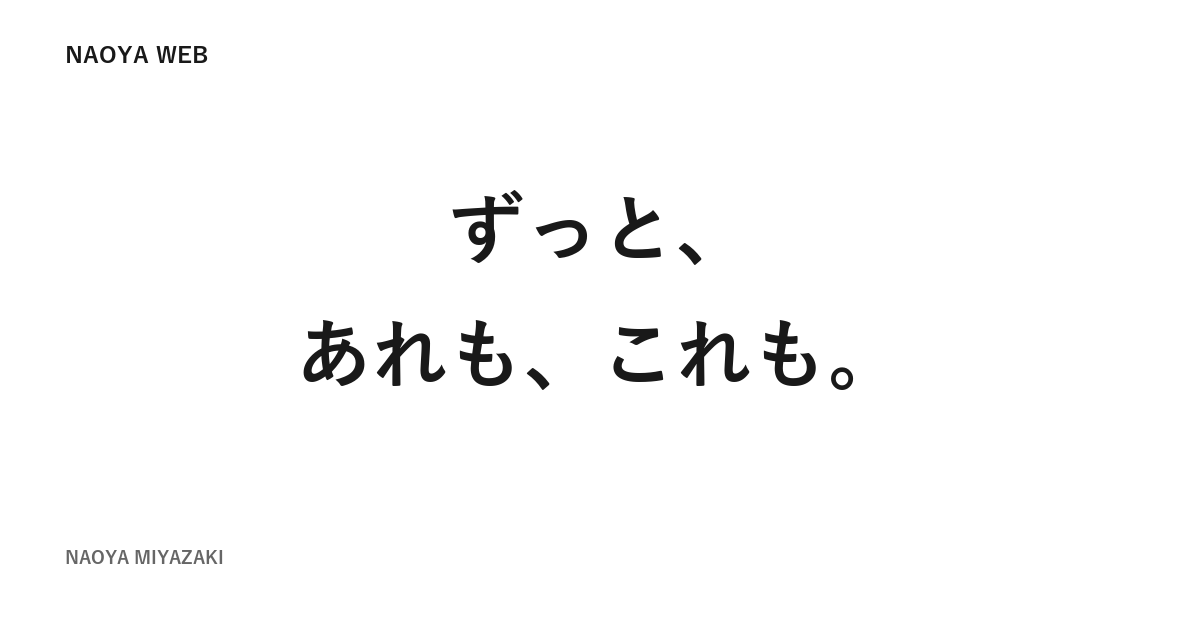
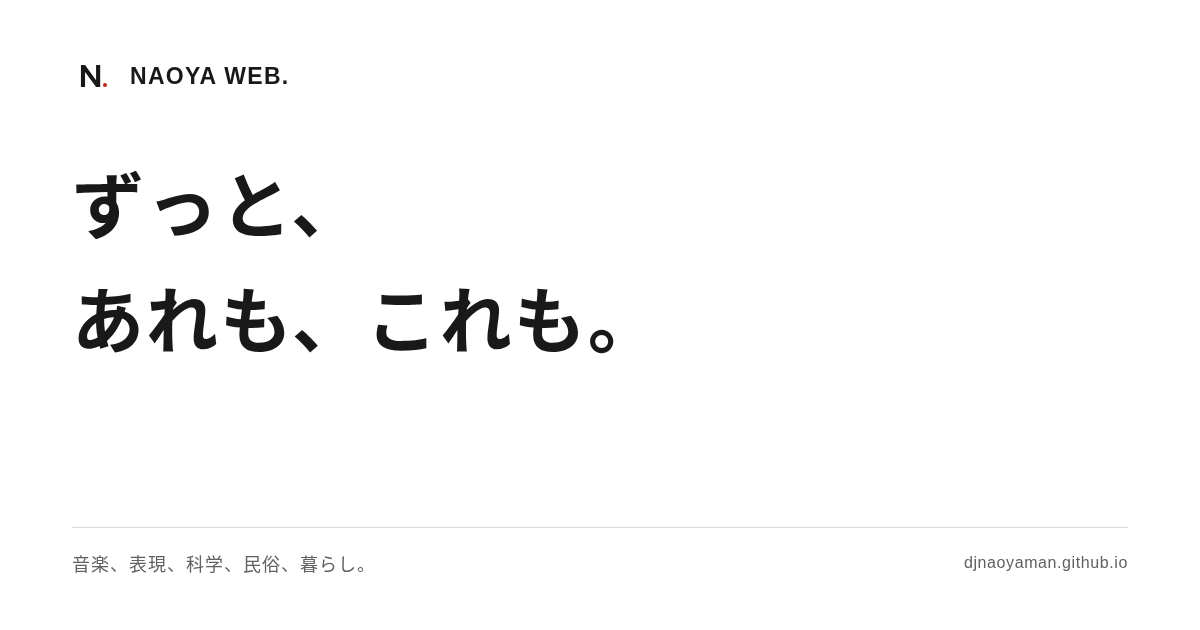
Polish brand assets, device presentation and portfolio edge cases
Unify centered N-dot icons, adaptive favicon, maskable and pinned-tab
assets, a Japanese share card, manifest previews and home-screen shortcuts.
Complete recovery-page metadata and safe-area handling, harden restored
and racing share operations, and add continuous browser/asset checks.

diff --git a/index.html b/index.html
@@ -1,20 +1,20 @@
 <!doctype html>
 <html lang="ja">
 <head>
-<meta charset="utf-8"><meta http-equiv="Content-Security-Policy" content="default-src 'none'; script-src 'self'; style-src 'self'; img-src 'self'; manifest-src 'self'; connect-src 'none'; base-uri 'none'; form-action 'none'; object-src 'none'"><meta name="viewport" content="width=device-width,initial-scale=1">
+<meta charset="utf-8"><meta http-equiv="Content-Security-Policy" content="default-src 'none'; script-src 'self'; style-src 'self'; img-src 'self'; manifest-src 'self'; connect-src 'none'; base-uri 'none'; form-action 'none'; object-src 'none'"><meta name="viewport" content="width=device-width,initial-scale=1,viewport-fit=cover">
 <title>NAOYA WEB — ずっと、あれも、これも。</title>
 <meta name="description" content="ずっと、あれも、これも。宮崎直哉のWebプロジェクト集。音楽、表現、科学、民俗、暮らし。さまざまな分野で制作した11のWebサイトを紹介します。">
 <link rel="canonical" href="https://djnaoyaman.github.io/">
-<meta property="og:type" content="website"><meta property="og:title" content="NAOYA WEB — ずっと、あれも、これも。"><meta property="og:description" content="宮崎直哉のWebプロジェクト集。音楽、表現、科学、民俗、暮らし。領域を越えて、全部やる。"><meta property="og:url" content="https://djnaoyaman.github.io/"><meta name="theme-color" content="#ffffff"><meta name="referrer" content="strict-origin-when-cross-origin">
-<link rel="icon" href="/favicon.ico" sizes="any"><link rel="icon" href="/favicon.svg" type="image/svg+xml"><link rel="icon" href="/favicon-32.png" type="image/png" sizes="32x32"><link rel="icon" href="/favicon-16.png" type="image/png" sizes="16x16"><link rel="apple-touch-icon" sizes="180x180" href="/apple-touch-icon.png"><link rel="manifest" href="/site.webmanifest">
+<meta property="og:type" content="website"><meta property="og:title" content="NAOYA WEB — ずっと、あれも、これも。"><meta property="og:description" content="宮崎直哉のWebプロジェクト集。音楽、表現、科学、民俗、暮らし。領域を越えて、全部やる。"><meta property="og:url" content="https://djnaoyaman.github.io/"><meta name="theme-color" content="#ffffff"><meta name="color-scheme" content="light"><meta name="application-name" content="NAOYA WEB."><meta name="apple-mobile-web-app-title" content="NAOYA WEB."><meta name="referrer" content="strict-origin-when-cross-origin">
+<link rel="icon" href="/favicon.ico?v=20261026-3" sizes="16x16 32x32 48x48 64x64"><link rel="icon" href="/favicon-32.png?v=20261026-3" type="image/png" sizes="32x32"><link rel="icon" href="/favicon-48.png?v=20261026-3" type="image/png" sizes="48x48"><link rel="icon" href="/favicon.svg?v=20261026-3" type="image/svg+xml" sizes="any"><link rel="apple-touch-icon" sizes="180x180" href="/apple-touch-icon.png?v=20261026-3"><link rel="mask-icon" href="/safari-pinned-tab.svg?v=20261026-3" color="#191919"><link rel="manifest" href="/site.webmanifest?v=20261026-3">
 <meta name="robots" content="index,follow,max-image-preview:large"><meta name="author" content="宮崎直哉">
-<meta property="og:site_name" content="NAOYA WEB"><meta property="og:locale" content="ja_JP"><meta property="og:image" content="https://djnaoyaman.github.io/og-image.png"><meta property="og:image:secure_url" content="https://djnaoyaman.github.io/og-image.png"><meta property="og:image:type" content="image/png"><meta property="og:image:width" content="1200"><meta property="og:image:height" content="630"><meta property="og:image:alt" content="NAOYA WEB — ずっと、あれも、これも。">
-<meta name="twitter:card" content="summary_large_image"><meta name="twitter:title" content="NAOYA WEB — ずっと、あれも、これも。"><meta name="twitter:description" content="宮崎直哉のWebプロジェクト集。音楽、表現、科学、民俗、暮らし。領域を越えて、全部やる。"><meta name="twitter:image" content="https://djnaoyaman.github.io/og-image.png"><meta name="twitter:image:alt" content="NAOYA WEB — ずっと、あれも、これも。">
+<meta property="og:site_name" content="NAOYA WEB"><meta property="og:locale" content="ja_JP"><meta property="og:image" content="https://djnaoyaman.github.io/og-image.png?v=20261026-3"><meta property="og:image:secure_url" content="https://djnaoyaman.github.io/og-image.png?v=20261026-3"><meta property="og:image:type" content="image/png"><meta property="og:image:width" content="1200"><meta property="og:image:height" content="630"><meta property="og:image:alt" content="NAOYA WEB — ずっと、あれも、これも。">
+<meta name="twitter:card" content="summary_large_image"><meta name="twitter:title" content="NAOYA WEB — ずっと、あれも、これも。"><meta name="twitter:description" content="宮崎直哉のWebプロジェクト集。音楽、表現、科学、民俗、暮らし。領域を越えて、全部やる。"><meta name="twitter:image" content="https://djnaoyaman.github.io/og-image.png?v=20261026-3"><meta name="twitter:image:alt" content="NAOYA WEB — ずっと、あれも、これも。">
 <link rel="alternate" type="text/markdown" href="/llms.txt" title="サイト概要とプロジェクト一覧"><link rel="sitemap" type="application/xml" href="/sitemap.xml">
-<link rel="stylesheet" href="/site.css?v=20261026-2">
+<link rel="stylesheet" href="/site.css?v=20261026-3">
 <script type="application/ld+json">{"@context":"https://schema.org","@graph":[{"@type":"WebSite","@id":"https://djnaoyaman.github.io/#website","name":"NAOYA WEB","url":"https://djnaoyaman.github.io/","inLanguage":"ja","description":"ずっと、あれも、これも。宮崎直哉のWebプロジェクト集。","author":{"@id":"https://djnaoyaman.github.io/#person"}},{"@type":"Person","@id":"https://djnaoyaman.github.io/#person","name":"宮崎直哉","alternateName":["Naoya Miyazaki","DJ Naoyaman"],"url":"https://djnaoyaman.github.io/","sameAs":["https://github.com/djnaoyaman"],"jobTitle":"CMディレクター"},{"@type":"CollectionPage","@id":"https://djnaoyaman.github.io/#collection","name":"NAOYA WEB — Projects","url":"https://djnaoyaman.github.io/","isPartOf":{"@id":"https://djnaoyaman.github.io/#website"},"mainEntity":{"@type":"ItemList","numberOfItems":11,"itemListElement":[{"@type":"ListItem","position":1,"item":{"@type":"WebSite","name":"gooooooooood expression","url":"https://djnaoyaman.github.io/gooooooooood_expression/","description":"Webサイトで使える表現を、動く作例・解説・コードで学ぶ図鑑。文字や粒子の動き、音、3Dなどの表現を、実際に操作しながら確かめられます。","inLanguage":"ja"}},{"@type":"ListItem","position":2,"item":{"@type":"WebSite","name":"Crate Diggin’","url":"https://djnaoyaman.github.io/cratediggin/","description":"サンプリングに使われた楽曲や、往年のグルーヴを探す音楽ガイド。曲の背景や聴きどころを読みながら、お気に入りをMY CRATEに集められます。","inLanguage":"ja"}},{"@type":"ListItem","position":3,"item":{"@type":"WebSite","name":"Earth Number","url":"https://djnaoyaman.github.io/earthnumber/","description":"地球や宇宙、水、鉱物を、数値から知る科学図鑑。単位や出典を確かめながら、身近な現象から地球規模の事象まで調べられます。","inLanguage":"ja"}},{"@type":"ListItem","position":4,"item":{"@type":"WebSite","name":"my Chems","url":"https://djnaoyaman.github.io/chems/","description":"The Chemical Brothersの作品を、音楽の特徴や制作技術、時代背景から読み解く個人サイト。日本語と英語で、各作品の解説を読めます。","inLanguage":"ja"}},{"@type":"ListItem","position":5,"item":{"@type":"WebSite","name":"SUBURBIA CLASSICA","url":"https://djnaoyaman.github.io/suburbia-classica/","description":"ピアノや映画、CMで耳にしたクラシックを、解説とともに楽しむ楽曲データベース。作曲の経緯や曲の構成、録音にまつわる話を読みながら聴けます。","inLanguage":"ja"}},{"@type":"ListItem","position":6,"item":{"@type":"WebSite","name":"鎌・くらんぽ","url":"https://djnaoyaman.github.io/kuranpo/","description":"鎌倉の神社仏閣を巡る散歩ガイド。出発から散策の終わりまでの道順や距離、拝観情報、各地の歴史を紹介します。","inLanguage":"ja"}},{"@type":"ListItem","position":7,"item":{"@type":"WebSite","name":"一見坊の日本妖怪学体系","url":"https://djnaoyaman.github.io/youkai/","description":"各地の妖怪を、伝承や出典とともに紹介する図鑑。民俗学の視点から、妖怪の起源や土地との関わり、怪談、現代の妖怪をたどります。","inLanguage":"ja"}},{"@type":"ListItem","position":8,"item":{"@type":"WebSite","name":"花鳥風月、そして魚と虫。","url":"https://djnaoyaman.github.io/sakanamushi/","description":"魚、虫、鳥、植物など、自然にまつわる漢字の読み方を学ぶクイズ図鑑。大きく表示された漢字を見ながら、一問ずつ読み方を確かめられます。","inLanguage":"ja"}},{"@type":"ListItem","position":9,"item":{"@type":"WebSite","name":"酸冷交代浴","url":"https://djnaoyaman.github.io/sanreikotaiyoku/","description":"炭酸泉と水風呂に交互に入る「酸冷交代浴」を紹介するサイト。体験談や楽しみ方、各地の入浴施設に加え、関連する研究や資料も紹介します。","inLanguage":"ja"}},{"@type":"ListItem","position":10,"item":{"@type":"WebSite","name":"掌蹠膿疱症.com","url":"https://djnaoyaman.github.io/ppp/","description":"掌蹠膿疱症の症状や原因、治療の選択肢を整理した情報サイト。標準的な治療、漢方、セルフケアなど、知りたいテーマごとに読めます。","inLanguage":"ja"}},{"@type":"ListItem","position":11,"item":{"@type":"WebSite","name":"Book Keeping","url":"https://djnaoyaman.github.io/bookkeeping/","description":"日商簿記・全経簿記・USCPAの試験に向けた学習サイト。金額や仕訳を入力する問題を繰り返し解き、間違えた問題を復習できます。","inLanguage":"ja"}}]}}]}</script>
 </head><body id="top"><a class="skip" href="#main">本文へスキップ</a>
-<header><a class="brand" href="#top">NAOYA WEB</a><nav aria-label="メインナビゲーション"><a href="#about">わたし</a><a href="#projects">つくったもの</a></nav></header>
+<header><a class="brand" href="#top">NAOYA WEB<span class="brand-dot" aria-hidden="true">.</span></a><nav aria-label="メインナビゲーション"><a href="#about">わたし</a><a href="#projects">つくったもの</a></nav></header>
 <main id="main" tabindex="-1"><section class="hero" aria-labelledby="catchcopy"><h1 id="catchcopy"><span>ずっと、</span><span>あれも、これも。</span></h1><p class="byline" lang="en">NAOYA MIYAZAKI</p></section>
 <section class="story" id="about" aria-label="わたし"><p>野球かバスケか選べなかった。</p>
 <p>球技か陸上か選べなかった。</p>
@@ -44,4 +44,4 @@
 <article class="project" id="project-10" data-theme="life" aria-labelledby="project-title-10"><span class="number" aria-hidden="true">10</span><div><p class="project-category">暮らし・学び</p><h3 id="project-title-10"><a href="/ppp/">掌蹠膿疱症.com</a></h3><p class="description">掌蹠膿疱症の症状や原因、治療の選択肢を整理した情報サイト。標準的な治療、漢方、セルフケアなど、知りたいテーマごとに読めます。</p><div class="project-links"><a href="/ppp/" aria-label="掌蹠膿疱症.comを見る">サイトを見る</a><a href="https://github.com/djnaoyaman/ppp" aria-label="掌蹠膿疱症.comのソースコードを見る">ソースコードを見る</a></div></div></article>
 <article class="project" id="project-11" data-theme="life" aria-labelledby="project-title-11"><span class="number" aria-hidden="true">11</span><div><p class="project-category">暮らし・学び</p><h3 id="project-title-11"><a href="/bookkeeping/">Book Keeping</a></h3><p class="description">日商簿記・全経簿記・USCPAの試験に向けた学習サイト。金額や仕訳を入力する問題を繰り返し解き、間違えた問題を復習できます。</p><div class="project-links"><a href="/bookkeeping/" aria-label="Book Keepingを見る">サイトを見る</a><a href="https://github.com/djnaoyaman/bookkeeping" aria-label="Book Keepingのソースコードを見る">ソースコードを見る</a></div></div></article></div></section></main>
 <footer class="footer"><div class="share-tools"><a href="https://twitter.com/intent/tweet?text=NAOYA%20WEB%20%E2%80%94%20%E3%81%9A%E3%81%A3%E3%81%A8%E3%80%81%E3%81%82%E3%82%8C%E3%82%82%E3%80%81%E3%81%93%E3%82%8C%E3%82%82%E3%80%82&amp;url=https%3A%2F%2Fdjnaoyaman.github.io%2F" target="_blank" rel="noopener noreferrer">Xでシェア</a><button type="button" id="copy-link" hidden>リンクをコピー</button><button type="button" id="native-share" hidden>共有する</button><span id="share-status" role="status" aria-live="polite" aria-atomic="true"></span></div><div class="footer-bottom"><span>© 2026 NAOYA MIYAZAKI</span><a href="https://github.com/djnaoyaman">GitHub</a><a href="#top">ページの先頭へ</a></div></footer>
-<script src="/site.js?v=20261026-2" defer></script></body></html>
+<script src="/site.js?v=20261026-3" defer></script></body></html>

diff --git a/404.html b/404.html
@@ -1,15 +1,15 @@
 <!doctype html>
 <html lang="ja">
 <head>
-<meta charset="utf-8"><meta name="viewport" content="width=device-width,initial-scale=1">
-<meta name="robots" content="noindex,follow"><meta name="theme-color" content="#ffffff">
+<meta charset="utf-8"><meta name="viewport" content="width=device-width,initial-scale=1,viewport-fit=cover">
+<meta name="robots" content="noindex,follow"><meta name="theme-color" content="#ffffff"><meta name="color-scheme" content="light"><meta name="application-name" content="NAOYA WEB."><meta name="apple-mobile-web-app-title" content="NAOYA WEB.">
 <meta name="referrer" content="strict-origin-when-cross-origin">
-<meta http-equiv="Content-Security-Policy" content="default-src 'none'; style-src 'self'; img-src 'self'; base-uri 'none'; form-action 'none'; object-src 'none'">
+<meta http-equiv="Content-Security-Policy" content="default-src 'none'; style-src 'self'; img-src 'self'; manifest-src 'self'; base-uri 'none'; form-action 'none'; object-src 'none'">
 <title>ページが見つかりません — NAOYA WEB</title>
 <meta name="description" content="お探しのページが見つかりません。NAOYA WEBの作品一覧からご覧ください。">
-<link rel="icon" href="/favicon.svg" type="image/svg+xml"><link rel="stylesheet" href="/site.css?v=20261026-2">
+<link rel="icon" href="/favicon.ico?v=20261026-3" sizes="16x16 32x32 48x48 64x64"><link rel="icon" href="/favicon-32.png?v=20261026-3" type="image/png" sizes="32x32"><link rel="icon" href="/favicon-48.png?v=20261026-3" type="image/png" sizes="48x48"><link rel="icon" href="/favicon.svg?v=20261026-3" type="image/svg+xml" sizes="any"><link rel="apple-touch-icon" sizes="180x180" href="/apple-touch-icon.png?v=20261026-3"><link rel="mask-icon" href="/safari-pinned-tab.svg?v=20261026-3" color="#191919"><link rel="manifest" href="/site.webmanifest?v=20261026-3"><link rel="stylesheet" href="/site.css?v=20261026-3">
 </head>
 <body><a class="skip" href="#main">本文へスキップ</a>
-<header><a class="brand" href="/">NAOYA WEB</a></header>
+<header><a class="brand" href="/">NAOYA WEB<span class="brand-dot" aria-hidden="true">.</span></a></header>
 <main class="error-main" id="main" tabindex="-1"><p class="error-code">404 / NOT FOUND</p><h1>ページが<br>見つかりません。</h1><p>ページが移動または削除されたか、URLが間違っている可能性があります。<br>URLをご確認いただくか、作品一覧からお探しください。</p><div class="error-links"><a href="/">NAOYA WEBへ</a><a href="/#projects">つくったものを見る</a></div></main>
 <footer class="footer"><div class="footer-bottom"><span>NAOYA MIYAZAKI</span><a href="https://github.com/djnaoyaman">GitHub</a></div></footer></body></html>

diff --git a/site.js b/site.js
@@ -58,26 +58,39 @@
   const status = document.querySelector('#share-status');
   if (!status) return;
   let announcement;
+  let operation = 0;
+  let copyOperation = 0, shareOperation = 0;
   const announce = message => {
     clearTimeout(announcement);
     status.textContent = '';
     announcement = setTimeout(() => { status.textContent = message; }, 30);
   };
+  window.addEventListener('pageshow', event => {
+    if (!event.persisted) return;
+    operation++;
+    copyOperation = shareOperation = 0;
+    clearTimeout(announcement);
+    status.textContent = '';
+    if (copyButton) copyButton.disabled = false;
+    if (shareButton) shareButton.disabled = false;
+  });
   if (navigator.clipboard && window.isSecureContext && copyButton) {
     copyButton.hidden = false;
     copyButton.addEventListener('click', async () => {
+      const ticket = copyOperation = ++operation;
       copyButton.disabled = true;
       try {
         await navigator.clipboard.writeText(canonical);
-        announce('リンクをコピーしました。');
+        if (ticket === operation) announce('リンクをコピーしました。');
       } catch {
-        announce(`コピーできませんでした。次のURLを選択してコピーしてください：${canonical}`);
-      } finally { copyButton.disabled = false; }
+        if (ticket === operation) announce(`コピーできませんでした。次のURLを選択してコピーしてください：${canonical}`);
+      } finally { if (copyOperation === ticket) copyButton.disabled = false; }
     });
   }
   if (navigator.share && shareButton) {
     shareButton.hidden = false;
     shareButton.addEventListener('click', async () => {
+      const ticket = shareOperation = ++operation;
       shareButton.disabled = true;
       // Do not leave a previous success/error visible if this share is cancelled.
       clearTimeout(announcement);
@@ -85,8 +98,8 @@
       try {
         await navigator.share({title:document.title,text:'音楽も、科学も、表現も、暮らしも。宮崎直哉のWebプロジェクト集。',url:canonical});
       } catch (error) {
-        if (error?.name !== 'AbortError') announce('共有メニューを開けませんでした。「Xでシェア」または「リンクをコピー」をお試しください。');
-      } finally { shareButton.disabled = false; }
+        if (ticket === operation && error?.name !== 'AbortError') announce('共有メニューを開けませんでした。「Xでシェア」または「リンクをコピー」をお試しください。');
+      } finally { if (shareOperation === ticket) shareButton.disabled = false; }
     });
   }
 })();

diff --git a/site.css b/site.css
@@ -41,3 +41,12 @@ a:focus-visible,button:focus-visible{outline:2px solid var(--red);outline-offset
 @media(prefers-reduced-motion:reduce){html{scroll-behavior:auto}}
 @media(forced-colors:active){.project-filter button[aria-pressed="true"]{background:Highlight;color:HighlightText;border:2px solid Highlight}.project-filter button{border-color:ButtonText}a:focus-visible,button:focus-visible{outline-color:Highlight}nav a[aria-current="location"]::after{background:LinkText}}
 @media print{html{scroll-behavior:auto}body{color:#000;background:#fff;font-size:10pt}header{padding:0 0 12pt}.skip,nav,.project-filter,.share-tools,.footer-bottom a{display:none!important}.hero{min-height:0;padding:25pt 0 30pt}h1{font-size:28pt;line-height:1.5}.hero .byline{margin-top:12pt}.story{padding:20pt 0 30pt;max-width:none}.story p{font-size:10pt;line-height:1.7;margin-bottom:6pt}.story .father-words{margin:18pt 0}.story .turning-point{margin-top:18pt}.story .decision{font-size:16pt}.author{margin-top:18pt}.projects{padding:0;max-width:none}.project{break-inside:avoid;padding:14pt 0;gap:12pt}.project[hidden]{display:grid!important}.project-category{margin-bottom:3pt}h3{font-size:13pt}.description{font-size:10pt;color:#333;line-height:1.7}.project-links{margin-top:4pt;font-size:9pt}.project-links a{min-height:0}.project-links a:first-child::after{content:"  https://djnaoyaman.github.io" attr(href);font-size:8pt;margin-left:4pt}.project-links a:last-child{display:none}.footer{padding:20pt 0 0}.footer-bottom{font-size:8pt}a{text-decoration:none}#project-count{font-size:0}#project-count::after{content:"全11サイト";font:9pt Arial,sans-serif}}
+
+/* Brand punctuation, intrinsic wrapping and opt-in text-spacing resilience. */
+.brand-dot{color:var(--red)}
+header{flex-wrap:wrap}
+nav{flex-wrap:wrap}
+.project:focus-within h3 a{text-decoration:underline;text-decoration-color:var(--red)}
+#share-status{overflow-wrap:anywhere}
+.error-main h1{overflow-wrap:normal}
+@media print{.brand-dot{color:#000}}

diff --git a/assets-source/share-card.html b/assets-source/share-card.html
@@ -1,0 +1,4 @@
+<!doctype html><html lang="ja"><meta charset="utf-8"><title>NAOYA WEB — Share card source</title>
+<style>
+*{box-sizing:border-box}html,body{margin:0;width:1200px;height:630px;background:#fff;color:#191919}body{font-family:"Noto Sans CJK JP",sans-serif;padding:54px 72px;display:flex;flex-direction:column}.brand{display:flex;align-items:center;gap:14px;font-family:Arial,sans-serif;font-size:23px;font-weight:700;letter-spacing:1.3px}.brand svg{width:44px;height:44px}h1{font-weight:700;font-size:72px;letter-spacing:2px;line-height:1.6;margin:45px 0 32px}h1 span{display:block}.footer{margin-top:auto;padding-top:22px;border-top:1px solid #d9d9d9;display:flex;align-items:center;justify-content:space-between;font-size:18px;color:#616161;letter-spacing:1px}.url{font:16px Arial,sans-serif;letter-spacing:.6px}
+</style><body><div class="brand"><svg viewBox="0 0 64 64" aria-hidden="true"><path d="M13 48V16h6l16 22V16h6v32h-6L19 26v22z" fill="#191919"/><circle cx="48" cy="45" r="3" fill="#bc2919"/></svg>NAOYA WEB.</div><h1><span>ずっと、</span><span>あれも、これも。</span></h1><div class="footer"><span>音楽、表現、科学、民俗、暮らし。</span><span class="url">djnaoyaman.github.io</span></div></body></html>

diff --git a/tests/test-details.py b/tests/test-details.py
@@ -1,0 +1,79 @@
+"""Edge cases beyond the main UI test: python tests/test-details.py.
+Requires Playwright, Chromium and Pillow. Screenshots stay outside the repo.
+"""
+from pathlib import Path
+from urllib.parse import urlsplit
+import json,math,mimetypes,os,shutil
+from PIL import Image,ImageChops
+from playwright.sync_api import sync_playwright
+ROOT=Path(__file__).resolve().parents[1];ORIGIN='https://djnaoyaman.github.io'
+requests=[]
+def serve(route):
+ u=urlsplit(route.request.url);requests.append(u.path)
+ assert u.netloc=='djnaoyaman.github.io',route.request.url
+ file=ROOT/(u.path.lstrip('/') or 'index.html')
+ status=200 if file.is_file() else 404
+ if status==404:file=ROOT/'404.html'
+ route.fulfill(status=status,body=file.read_bytes(),content_type=mimetypes.guess_type(file)[0] or 'application/octet-stream')
+# Validate the visible artwork itself, including Android's safe circle.
+for filename in ['apple-touch-icon.png','icon-192.png','icon-512.png','icon-maskable-192.png','icon-maskable-512.png']:
+ im=Image.open(ROOT/filename);assert im.mode=='RGB';n=im.width
+ box=ImageChops.difference(im,Image.new('RGB',im.size,'white')).getbbox()
+ assert box and abs((box[0]+box[2])/2-n/2)<n*.02,(filename,box)
+ assert abs((box[1]+box[3])/2-n/2)<n*.02,(filename,box)
+ if 'maskable' in filename:
+  for y in range(n):
+   for x in range(n):
+    if min(im.getpixel((x,y)))<240:
+     assert math.hypot(x+.5-n/2,y+.5-n/2)<n*.4,(filename,x,y)
+ assert im.mode=='RGB'
+with sync_playwright() as p:
+ browser=p.chromium.launch(executable_path=os.environ.get('CHROMIUM_PATH') or shutil.which('chromium'),args=['--no-sandbox'])
+ context=browser.new_context(viewport={'width':390,'height':844});context.route('**/*',serve)
+ page=context.new_page();page.goto(ORIGIN+'/')
+ assert not any(path.endswith('og-image.png') or path.startswith('/screenshots/') for path in requests),'Unnecessary preview preload'
+ assert sum((ROOT/name).stat().st_size for name in ['index.html','site.css','site.js'])<40000
+ # Inline scripts are really blocked by the shipped policy.
+ page.evaluate("()=>{let s=document.createElement('script');s.textContent='window.untrustedRan=true';document.head.append(s)}")
+ assert page.evaluate('window.untrustedRan') is None
+ response=page.goto(ORIGIN+'/unknown/deep/path');assert response.status==404
+ assert page.locator('link[rel="apple-touch-icon"]').count()==1
+ assert page.locator('link[rel="manifest"]').count()==1
+ # Busy controls must recover after restoration; old async results must stay discarded.
+ page.add_init_script("Object.defineProperty(navigator,'clipboard',{value:{writeText:()=>new Promise(resolve=>{window.finishCopy=resolve})}});Object.defineProperty(navigator,'share',{value:async()=>{throw new DOMException('cancelled','AbortError')}})")
+ page.goto(ORIGIN+'/');page.locator('#copy-link').click();assert page.locator('#copy-link').is_disabled()
+ page.evaluate("dispatchEvent(new PageTransitionEvent('pageshow',{persisted:true}))")
+ assert page.locator('#copy-link').is_enabled()
+ page.evaluate('window.oldCopy=window.finishCopy')
+ page.locator('#copy-link').click();assert page.locator('#copy-link').is_disabled()
+ page.evaluate('window.oldCopy()');page.wait_for_timeout(60)
+ assert page.locator('#copy-link').is_disabled() and page.locator('#share-status').inner_text()==''
+ page.locator('#native-share').click();page.evaluate('window.finishCopy()');page.wait_for_timeout(60)
+ assert page.locator('#copy-link').is_enabled() and page.locator('#share-status').inner_text()==''
+ # A dedicated audit context permits test-only spacing rules without relaxing production CSP.
+ audit=browser.new_context(bypass_csp=True,viewport={'width':320,'height':740});audit.route('**/*',serve)
+ a=audit.new_page();a.goto(ORIGIN+'/')
+ a.add_style_tag(content='*{line-height:1.5!important;letter-spacing:.12em!important;word-spacing:.16em!important}p{margin-bottom:2em!important}')
+ assert a.evaluate('document.documentElement.scrollWidth<=innerWidth'),'Text spacing overflow'
+ for width,height in [(280,700),(320,740),(844,390),(1920,1080),(2560,1440)]:
+  a.set_viewport_size({'width':width,'height':height})
+  assert a.evaluate('document.documentElement.scrollWidth<=innerWidth'),(width,height)
+ a.screenshot(path='/tmp/naoya-text-spacing.png',full_page=True)
+ a.emulate_media(forced_colors='active');a.goto(ORIGIN+'/?theme=music#projects')
+ button=a.locator('button[data-theme="music"]');assert button.get_attribute('aria-pressed')=='true'
+ assert button.evaluate('(e)=>getComputedStyle(e).borderTopWidth')=='2px'
+ # Adaptive favicon is rendered in both schemes; the raster Apple icon stays on opaque white.
+ for scheme in ['light','dark']:
+  a.emulate_media(color_scheme=scheme,forced_colors='none')
+  a.goto(ORIGIN+'/favicon.svg')
+  a.set_viewport_size({'width':64,'height':64});a.screenshot(path=f'/tmp/naoya-favicon-{scheme}.png')
+ light=Image.open('/tmp/naoya-favicon-light.png').convert('RGB');dark=Image.open('/tmp/naoya-favicon-dark.png').convert('RGB')
+ assert sum(light.getpixel((0,0)))>700 and sum(dark.getpixel((0,0)))<150
+ # Review circle, rounded-square and pinned-tab masks as browser-rendered UI previews.
+ a.set_viewport_size({'width':900,'height':300})
+ a.goto(ORIGIN+'/')
+ a.set_content('''<style>body{margin:0;padding:36px;background:#eee;display:flex;gap:40px;font:14px sans-serif}figure{margin:0;text-align:center}img{width:160px;height:160px;display:block;margin-bottom:18px}.circle{border-radius:50%}.rounded{border-radius:36px}</style><figure><img class="rounded" src="/apple-touch-icon.png">Apple Touch Icon</figure><figure><img class="circle" src="/icon-maskable-512.png">Android circle</figure><figure><img class="rounded" src="/icon-maskable-512.png">Android rounded square</figure><figure><img src="/safari-pinned-tab.svg">Safari pinned tab</figure>''')
+ a.locator('img').evaluate_all('(els)=>Promise.all(els.map(e=>e.decode()))')
+ a.screenshot(path='/tmp/naoya-icon-masks.png')
+ browser.close()
+print('PASS: centered opaque icons, Android safe circles, small core payload, no preview preload, enforced CSP, real 404, restored/racing shares, text spacing, 5 extra sizes, forced colors, adaptive favicon')

diff --git a/tests/check-content.py b/tests/check-content.py
@@ -6,7 +6,7 @@ from urllib.parse import urlsplit
 ROOT=Path(__file__).resolve().parents[1]
 class Page(HTMLParser):
  def __init__(self,text):
-  super().__init__();self.ids=[];self.refs=[];self.meta={};self.ld=[];self.in_ld=False;self.headings=[];self.in_h3=False;self.feed(text)
+  super().__init__();self.ids=[];self.refs=[];self.meta={};self.ld=[];self.in_ld=False;self.headings=[];self.descriptions=[];self.in_desc=False;self.in_h3=False;self.feed(text)
  def handle_starttag(self,tag,attrs):
   a=dict(attrs)
   if 'id' in a:self.ids.append(a['id'])
@@ -16,12 +16,15 @@ class Page(HTMLParser):
    if v:self.refs.append((tag,v))
   if tag=='script' and a.get('type')=='application/ld+json':self.in_ld=True
   if tag=='h3':self.in_h3=True
+  if tag=='p' and a.get('class')=='description':self.in_desc=True
  def handle_endtag(self,tag):
   if tag=='script':self.in_ld=False
   if tag=='h3':self.in_h3=False
+  if tag=='p':self.in_desc=False
  def handle_data(self,data):
   if self.in_ld:self.ld.append(json.loads(data))
   if self.in_h3:self.headings.append(data)
+  if self.in_desc:self.descriptions.append(data)
 for filename in ['index.html','404.html']:
  page=Page((ROOT/filename).read_text())
  assert len(page.ids)==len(set(page.ids)),f'duplicate IDs: {filename}'
@@ -34,19 +37,38 @@ for filename in ['index.html','404.html']:
  assert "default-src 'none'" in page.meta['Content-Security-Policy']
  assert "'unsafe-inline'" not in page.meta['Content-Security-Policy']
  assert 'referrer' in page.meta
+ assert "manifest-src 'self'" in page.meta['Content-Security-Policy']
+ assert page.meta['apple-mobile-web-app-title']=='NAOYA WEB.'
  if filename=='404.html':assert page.meta['robots']=='noindex,follow'
  else:
   graph=page.ld[0]['@graph'];collection=graph[2]['mainEntity'];items=collection['itemListElement']
   assert collection['numberOfItems']==len(items)==len(page.headings)==11
   assert [item['item']['name'] for item in items]==page.headings
+  assert [item['item']['description'] for item in items]==page.descriptions
   assert [item['position'] for item in items]==list(range(1,12))
   for item in items:
    for filename in ['llms.txt','llms-full.txt']:
     assert item['item']['url'] in (ROOT/filename).read_text(),filename
+    assert item['item']['description'] in (ROOT/filename).read_text(),filename
 manifest=json.loads((ROOT/'site.webmanifest').read_text())
 for icon in manifest['icons']:
- data=(ROOT/icon['src'].lstrip('/')).read_bytes();width,height=struct.unpack('>II',data[16:24]);assert icon['sizes']==f'{width}x{height}'
+ data=(ROOT/urlsplit(icon['src']).path.lstrip('/')).read_bytes();width,height=struct.unpack('>II',data[16:24]);assert icon['sizes']==f'{width}x{height}'
 assert struct.unpack('>II',(ROOT/'og-image.png').read_bytes()[16:24])==(1200,630)
+assert manifest['scope']=='/' and manifest['start_url']=='/'
+assert manifest['display']=='browser' and manifest['display_override']==['minimal-ui','browser']
+assert {icon['purpose'] for icon in manifest['icons']}=={'any','maskable'}
+for purpose in ['any','maskable']:
+ assert {i['sizes'] for i in manifest['icons'] if i['purpose']==purpose}=={'192x192','512x512'}
+for screenshot in manifest['screenshots']:
+ data=(ROOT/urlsplit(screenshot['src']).path.lstrip('/')).read_bytes()
+ w,h=struct.unpack('>II',data[16:24]);assert screenshot['sizes']==f'{w}x{h}'
+for name in ['apple-touch-icon.png','favicon-16.png','favicon-32.png','favicon-48.png']:
+ expected=180 if name.startswith('apple') else int(name.split('-')[1].split('.')[0])
+ assert struct.unpack('>II',(ROOT/name).read_bytes()[16:24])==(expected,expected)
+ico=(ROOT/'favicon.ico').read_bytes();assert struct.unpack('<HHH',ico[:6])==(0,1,4)
+assert {ico[6+16*i] for i in range(4)}=={16,32,48,64}
+assert 'prefers-color-scheme:dark' in (ROOT/'favicon.svg').read_text()
+ET.parse(ROOT/'favicon.svg');ET.parse(ROOT/'safari-pinned-tab.svg')
 ET.parse(ROOT/'sitemap.xml')
 assert 'Sitemap: https://djnaoyaman.github.io/sitemap.xml' in (ROOT/'robots.txt').read_text()
 print('PASS: IDs, local assets, anchors, CSP, 404 noindex, 11-project JSON-LD/docs, manifest dimensions, OGP, sitemap')

diff --git a/tools/render-assets.py b/tools/render-assets.py
@@ -1,0 +1,26 @@
+"""Render the site's vector/HTML source to deterministic browser assets.
+Requires Python Playwright, Pillow, /usr/bin/chromium and Noto Sans CJK JP.
+No external network requests, font downloads or image-generation dependencies.
+"""
+from pathlib import Path
+from playwright.sync_api import sync_playwright
+from PIL import Image
+ROOT=Path(__file__).resolve().parents[1]
+with sync_playwright() as p:
+ browser=p.chromium.launch(executable_path='/usr/bin/chromium',args=['--no-sandbox'])
+ page=browser.new_page(device_scale_factor=1)
+ svg=(ROOT/'assets-source/mark.svg').read_text()
+ for name,size in [('apple-touch-icon.png',180),('icon-192.png',192),('icon-512.png',512),('icon-maskable-192.png',192),('icon-maskable-512.png',512),('favicon-16.png',16),('favicon-32.png',32),('favicon-48.png',48)]:
+  page.set_viewport_size({'width':size,'height':size})
+  page.set_content('<style>html,body{margin:0;width:100%;height:100%;background:white}svg{width:100%;height:100%;display:block}</style>'+svg)
+  page.screenshot(path=str(ROOT/name))
+  # Encoding only; all creative content is the declarative SVG above.
+  with Image.open(ROOT/name) as im:im.convert('RGB').save(ROOT/name,optimize=True)
+ with Image.open(ROOT/'icon-512.png') as im:im.save(ROOT/'favicon.ico',sizes=[(16,16),(32,32),(48,48),(64,64)])
+ page.set_viewport_size({'width':1200,'height':630})
+ page.set_content((ROOT/'assets-source/share-card.html').read_text())
+ page.evaluate('document.fonts.ready')
+ page.screenshot(path=str(ROOT/'og-image.png'))
+ with Image.open(ROOT/'og-image.png') as im:im.convert('RGB').save(ROOT/'og-image.png',optimize=True)
+ browser.close()
+print('Rendered 8 PNG icons, 4-size ICO and 1200×630 share card.')

diff --git a/tests/test-site.py b/tests/test-site.py
@@ -1,7 +1,7 @@
 """Run: python tests/test-site.py. Requires Playwright + Chromium.
 Optional AXE_PATH points to a locally supplied axe-core 4 script.
 """
-import json,os,re,mimetypes
+import json,os,re,mimetypes,shutil
 from pathlib import Path
 from urllib.parse import urlparse
 from playwright.sync_api import sync_playwright
@@ -25,7 +25,7 @@ def audit(page):
         assert not violations,json.dumps(violations,ensure_ascii=False)
 
 with sync_playwright() as p:
-    browser=p.chromium.launch(executable_path='/usr/bin/chromium',args=['--no-sandbox'])
+    browser=p.chromium.launch(executable_path=os.environ.get('CHROMIUM_PATH') or shutil.which('chromium'),args=['--no-sandbox'])
     context=browser.new_context(viewport={'width':1280,'height':900})
     context.route('**/*',route)
     page=context.new_page();errors=[];page.on('pageerror',lambda e:errors.append(str(e)))
@@ -85,6 +85,6 @@ with sync_playwright() as p:
         if value.startswith('/'):
             assert (ROOT/urlparse(value).path.lstrip('/')).is_file(),value
     manifest=json.loads((ROOT/'site.webmanifest').read_text())
-    for icon in manifest['icons']:assert (ROOT/icon['src'].lstrip('/')).is_file()
+    for icon in manifest['icons']:assert (ROOT/urlparse(icon['src']).path.lstrip('/')).is_file()
     browser.close()
 print('PASS: filters/history, 6 widths, 44px targets, print, reduced motion, keyboard, clipboard/share, no-JS, deep 404, metadata/assets'+(', axe WCAG AA' if os.environ.get('AXE_PATH') else ''))

diff --git a/tools/capture-screenshots.py b/tools/capture-screenshots.py
@@ -1,0 +1,18 @@
+"""Explicitly refresh manifest previews after a visible design change."""
+from pathlib import Path
+from urllib.parse import urlsplit
+import mimetypes,os,shutil
+from playwright.sync_api import sync_playwright
+ROOT=Path(__file__).resolve().parents[1]
+def serve(route):
+ path=ROOT/(urlsplit(route.request.url).path.lstrip('/') or 'index.html')
+ route.fulfill(body=path.read_bytes(),content_type=mimetypes.guess_type(path)[0] or 'application/octet-stream')
+with sync_playwright() as p:
+ browser=p.chromium.launch(executable_path=os.environ.get('CHROMIUM_PATH') or shutil.which('chromium'),args=['--no-sandbox'])
+ context=browser.new_context(device_scale_factor=1);context.route('**/*',serve)
+ page=context.new_page();(ROOT/'screenshots').mkdir(exist_ok=True)
+ for label,width,height in [('mobile',390,844),('desktop',1280,720)]:
+  page.set_viewport_size({'width':width,'height':height});page.goto('https://djnaoyaman.github.io/')
+  page.evaluate('document.fonts.ready');page.screenshot(path=str(ROOT/f'screenshots/{label}.png'))
+ browser.close()
+print('Refreshed actual mobile/desktop install-preview screenshots.')

diff --git a/README.md b/README.md
@@ -52,3 +52,20 @@ index.htmlの作品カード、件数、JSON-LD ItemList、llms.txt / llms-full.
 `python tests/test-site.py` はPython Playwrightと `/usr/bin/chromium` を使用。ネットワークをモックして絞り込み・履歴・6画面幅・キーボード・印刷・共有の失敗/キャンセル・JavaScript無効・404を検証。任意の `AXE_PATH` にaxe-coreのローカルファイルを渡すとWCAG A/AAとbest-practiceも自動検査。検査エンジンを注入する専用コンテキストのみCSPを無効化し、通常の機能テストではCSPを有効にする。自動検査だけで完全なアクセシビリティ適合を保証するものではない。
 
 作品の追加時は `index.html` のカード・構造化データ・初期件数・分野ボタン、`llms.txt` / `llms-full.txt` とチェックの期待件数を更新する。
+
+## 2026-10-26 ブランド・端末対応と細部の再点検
+
+- 中央配置の幾何学的な「N.」にアイコンを統一。180px Apple Touch Icon、192/512px通常アイコン、192/512px Android maskableアイコン、16/32/48px PNG、16/32/48/64pxを格納したICO、明暗に追従するSVG favicon、単色のSafari固定タブ用SVGを用意。
+- Apple Touch Iconは不透明な白地。Androidの図柄は中央80%の安全円に収め、丸型・角丸型で欠けないことを画素から検査。アイコンと共有画像の版番号を参照URLに付け、既存キャッシュとの混在を防ぐ。
+- 共有画像は日本語フォントを指定した1200×630px。ブランド、キャッチコピー、分野、URLを同じ意匠で描画。素材のソースは `assets-source/`、再生成は `python tools/render-assets.py`。Noto Sans CJK JP・Playwright・Pillowが必要。
+- ホーム画面名を `NAOYA WEB.` に明示。manifestに説明・実際のモバイル/PC画面・3つのショートカットを追加。ブラウザの操作が使える `minimal-ui` を優先し、対応しない環境では `browser` に戻る。単なるポートフォリオをブラウザ操作のない画面に閉じ込めない。
+- 404にもアイコン・ホーム画面名・manifest設定を統一。`viewport-fit=cover` と既存セーフエリア指定を接続。明るいページ背景を初回表示前から明示。
+- 文字間隔・行間の拡大に備えヘッダーを折り返す。キーボードで作品にフォーカスしたときにも見出しの下線を表示。
+- 履歴から復帰したときの共有ボタン状態を復旧。ページ復帰前の非同期結果が新しい共有操作を上書きしないよう、通知とボタン状態をそれぞれ管理。
+- ページ本体・CSS・JSの合計は非圧縮で40KB未満。OGPやインストール用スクリーンショットは通常表示では読み込まない。
+
+`python tools/capture-screenshots.py` でmanifest用の実画面を明示的に更新する。通常テストは公開用画像を書き換えない。
+
+`python tests/test-details.py` で画素の中央配置/安全円、CSPによる実行阻止、404応答、共有の非同期競合、文字間隔拡大、追加の画面寸法、強制配色、明暗faviconを検査。アイコンの切り抜きプレビューは `/tmp/naoya-icon-masks.png` に出力。GitHub Actionsは構造検査に加えPlaywrightとaxe-coreによるブラウザ検査も実行する。ブラウザ実行パスは `CHROMIUM_PATH` で指定でき、未指定時はシステムChromiumまたはPlaywrightのChromiumを利用する。
+
+端末ごとの表示はブラウザで検証した。iPhone/Androidの実機やSNSサービス側の画像キャッシュ更新までは自動検証の対象外。
